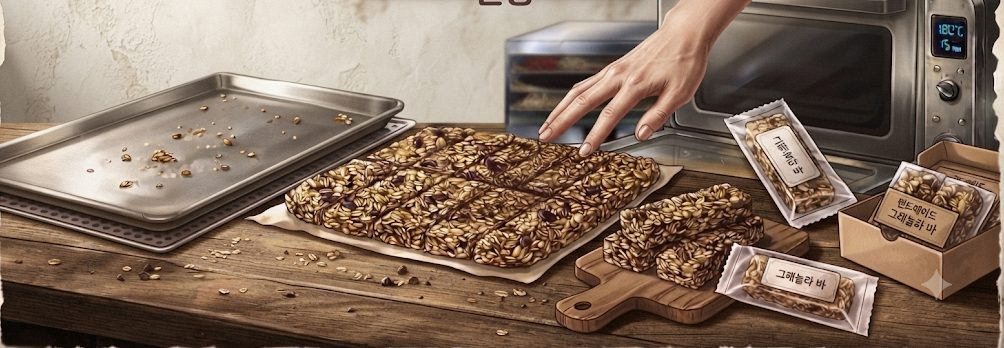
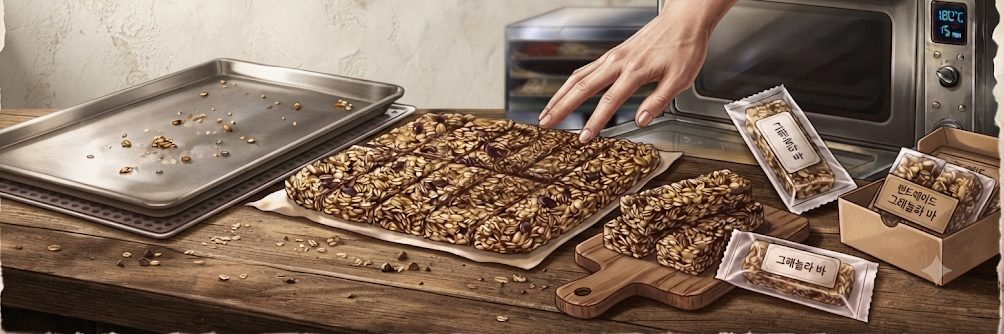
모바일 배너 4:5 비율로 조정, 글 하단 배치, 배너 이미지 재크롭

diff --git a/index.html b/index.html
@@ -1583,6 +1583,22 @@
     #loader .loader-char, #loader .loader-sub { font-weight: 400 !important; }
 
     /* 움직임 줄이기 설정을 켠 사용자 배려 */
+    /* 세로로 긴 화면(휴대폰·태블릿 세로): 화면 전체 대신 4:5 비율로, 글은 아래쪽에 배치 */
+    @media (orientation: portrait) and (max-width: 1024px) {
+      .banner-section {
+        height: min(125vw, 72svh);
+        min-height: 400px;
+      }
+      .slide {
+        justify-content: flex-end;
+        padding-bottom: 72px;
+      }
+      .slide::before {
+        background: linear-gradient(180deg, rgba(30,22,16,0.10) 0%, rgba(30,22,16,0.35) 45%, rgba(30,22,16,0.82) 100%);
+      }
+      .slider-dots { bottom: 28px; }
+    }
+
     @media (max-height: 500px) {
       .banner-section { min-height: 300px; }
       .slide-title { font-size: 1.6rem; }
